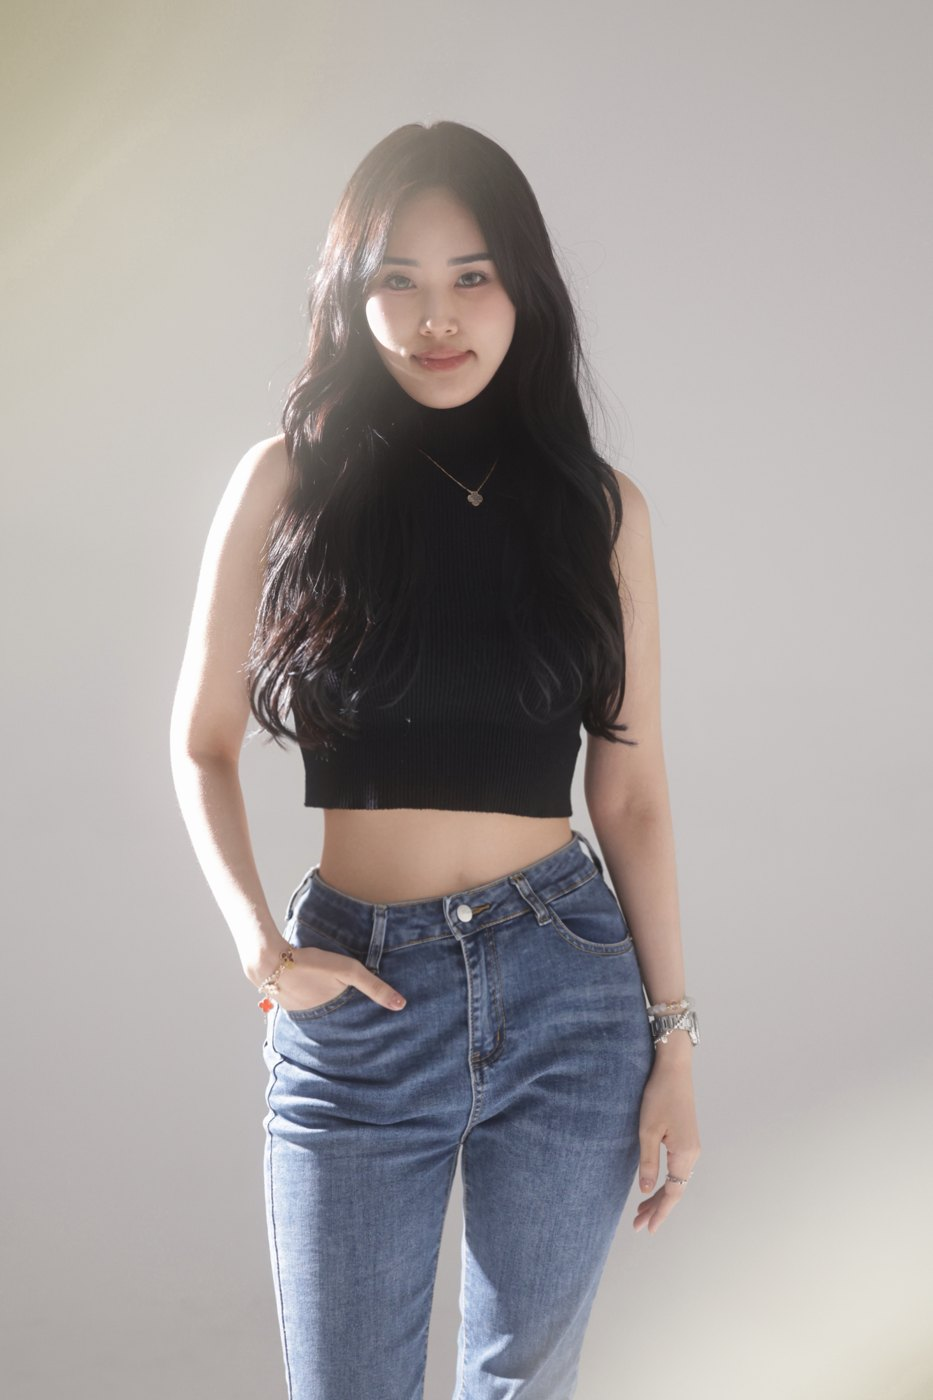
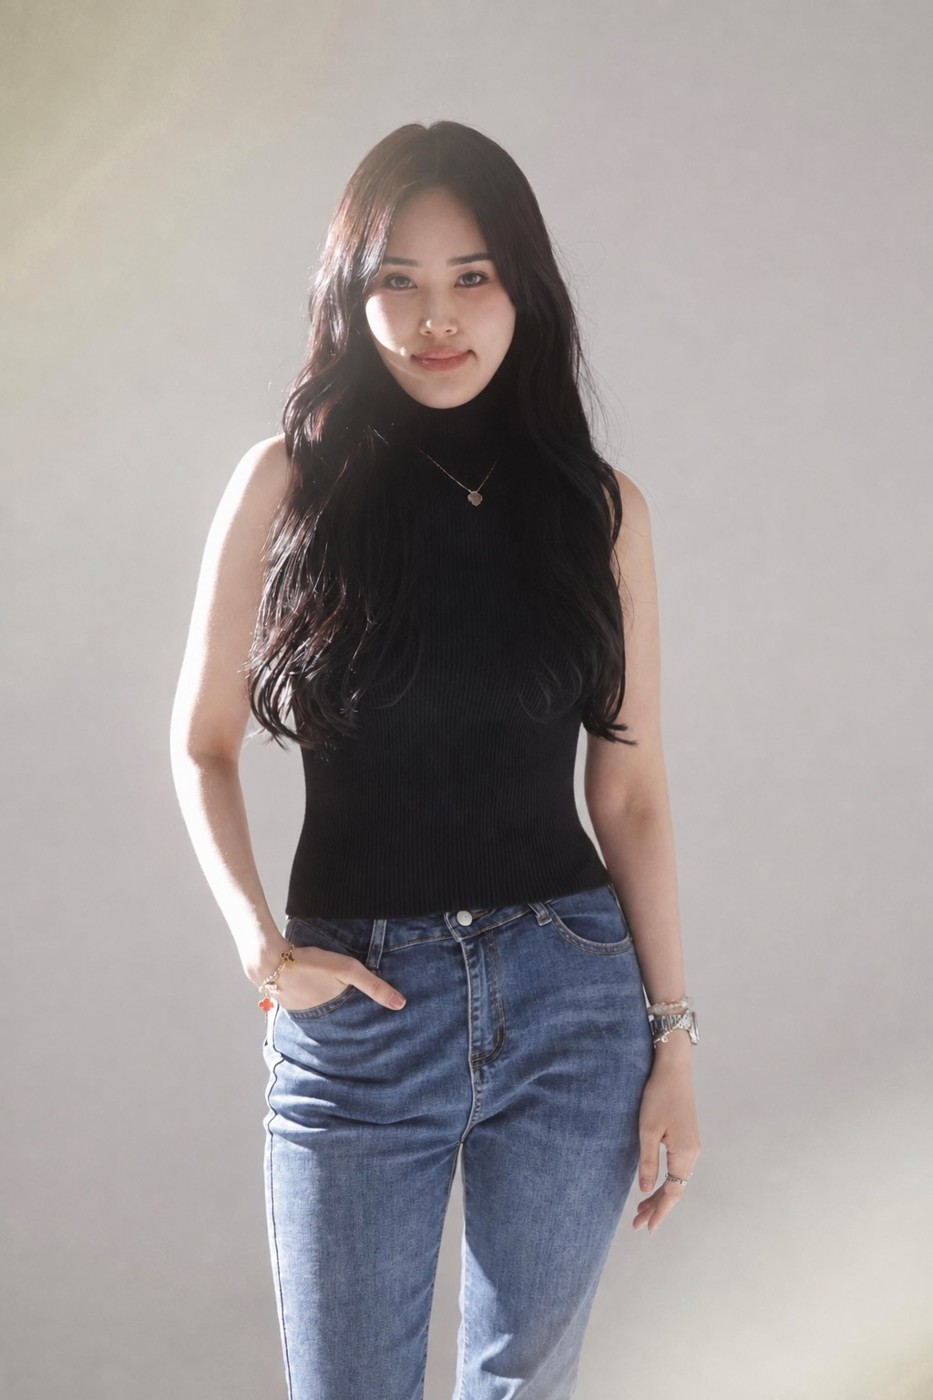
Update hero photo

diff --git a/index.html b/index.html
@@ -38,7 +38,7 @@
       </div>
     </div>
     <div class="hero-photo">
-      <img src="photo2.jpg" alt="Nicole Hew" onerror="this.outerHTML='&lt;div class=\'photo-ph hero-ph\'&gt;&lt;span&gt;Your portrait&lt;/span&gt;&lt;/div&gt;'" />
+      <img src="photo2.jpg?v=2" alt="Nicole Hew" onerror="this.outerHTML='&lt;div class=\'photo-ph hero-ph\'&gt;&lt;span&gt;Your portrait&lt;/span&gt;&lt;/div&gt;'" />
     </div>
   </header>
 
